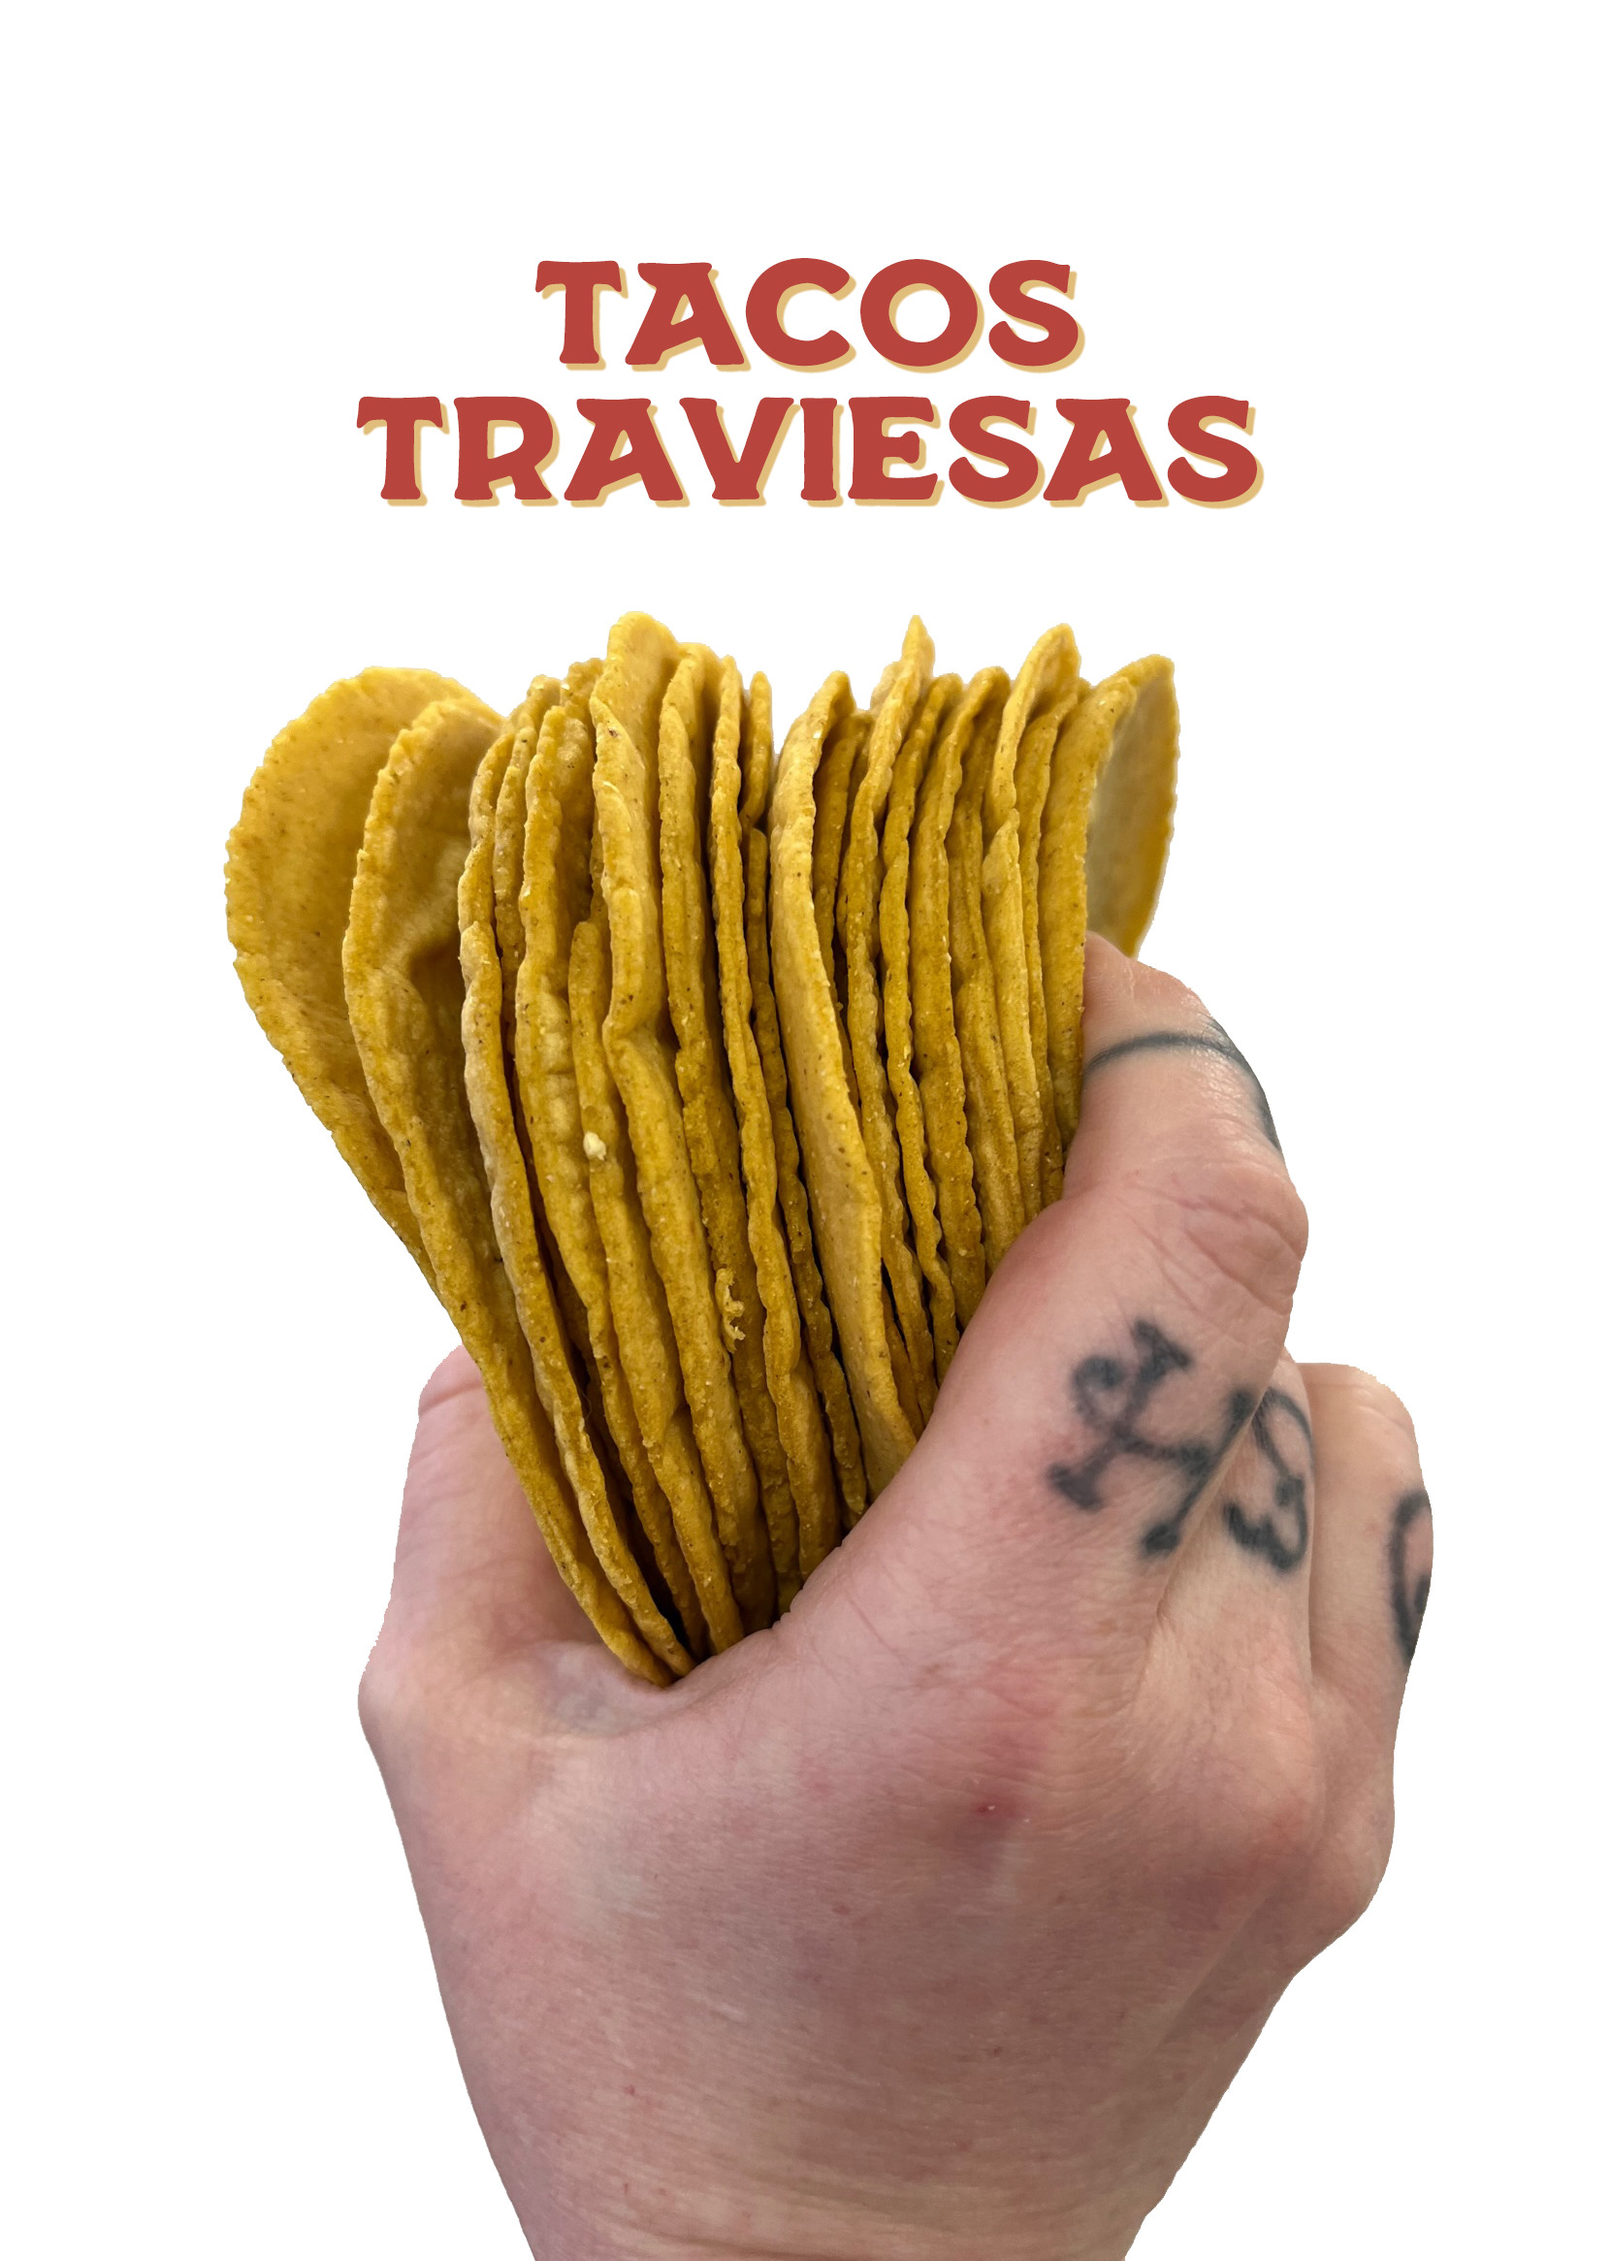
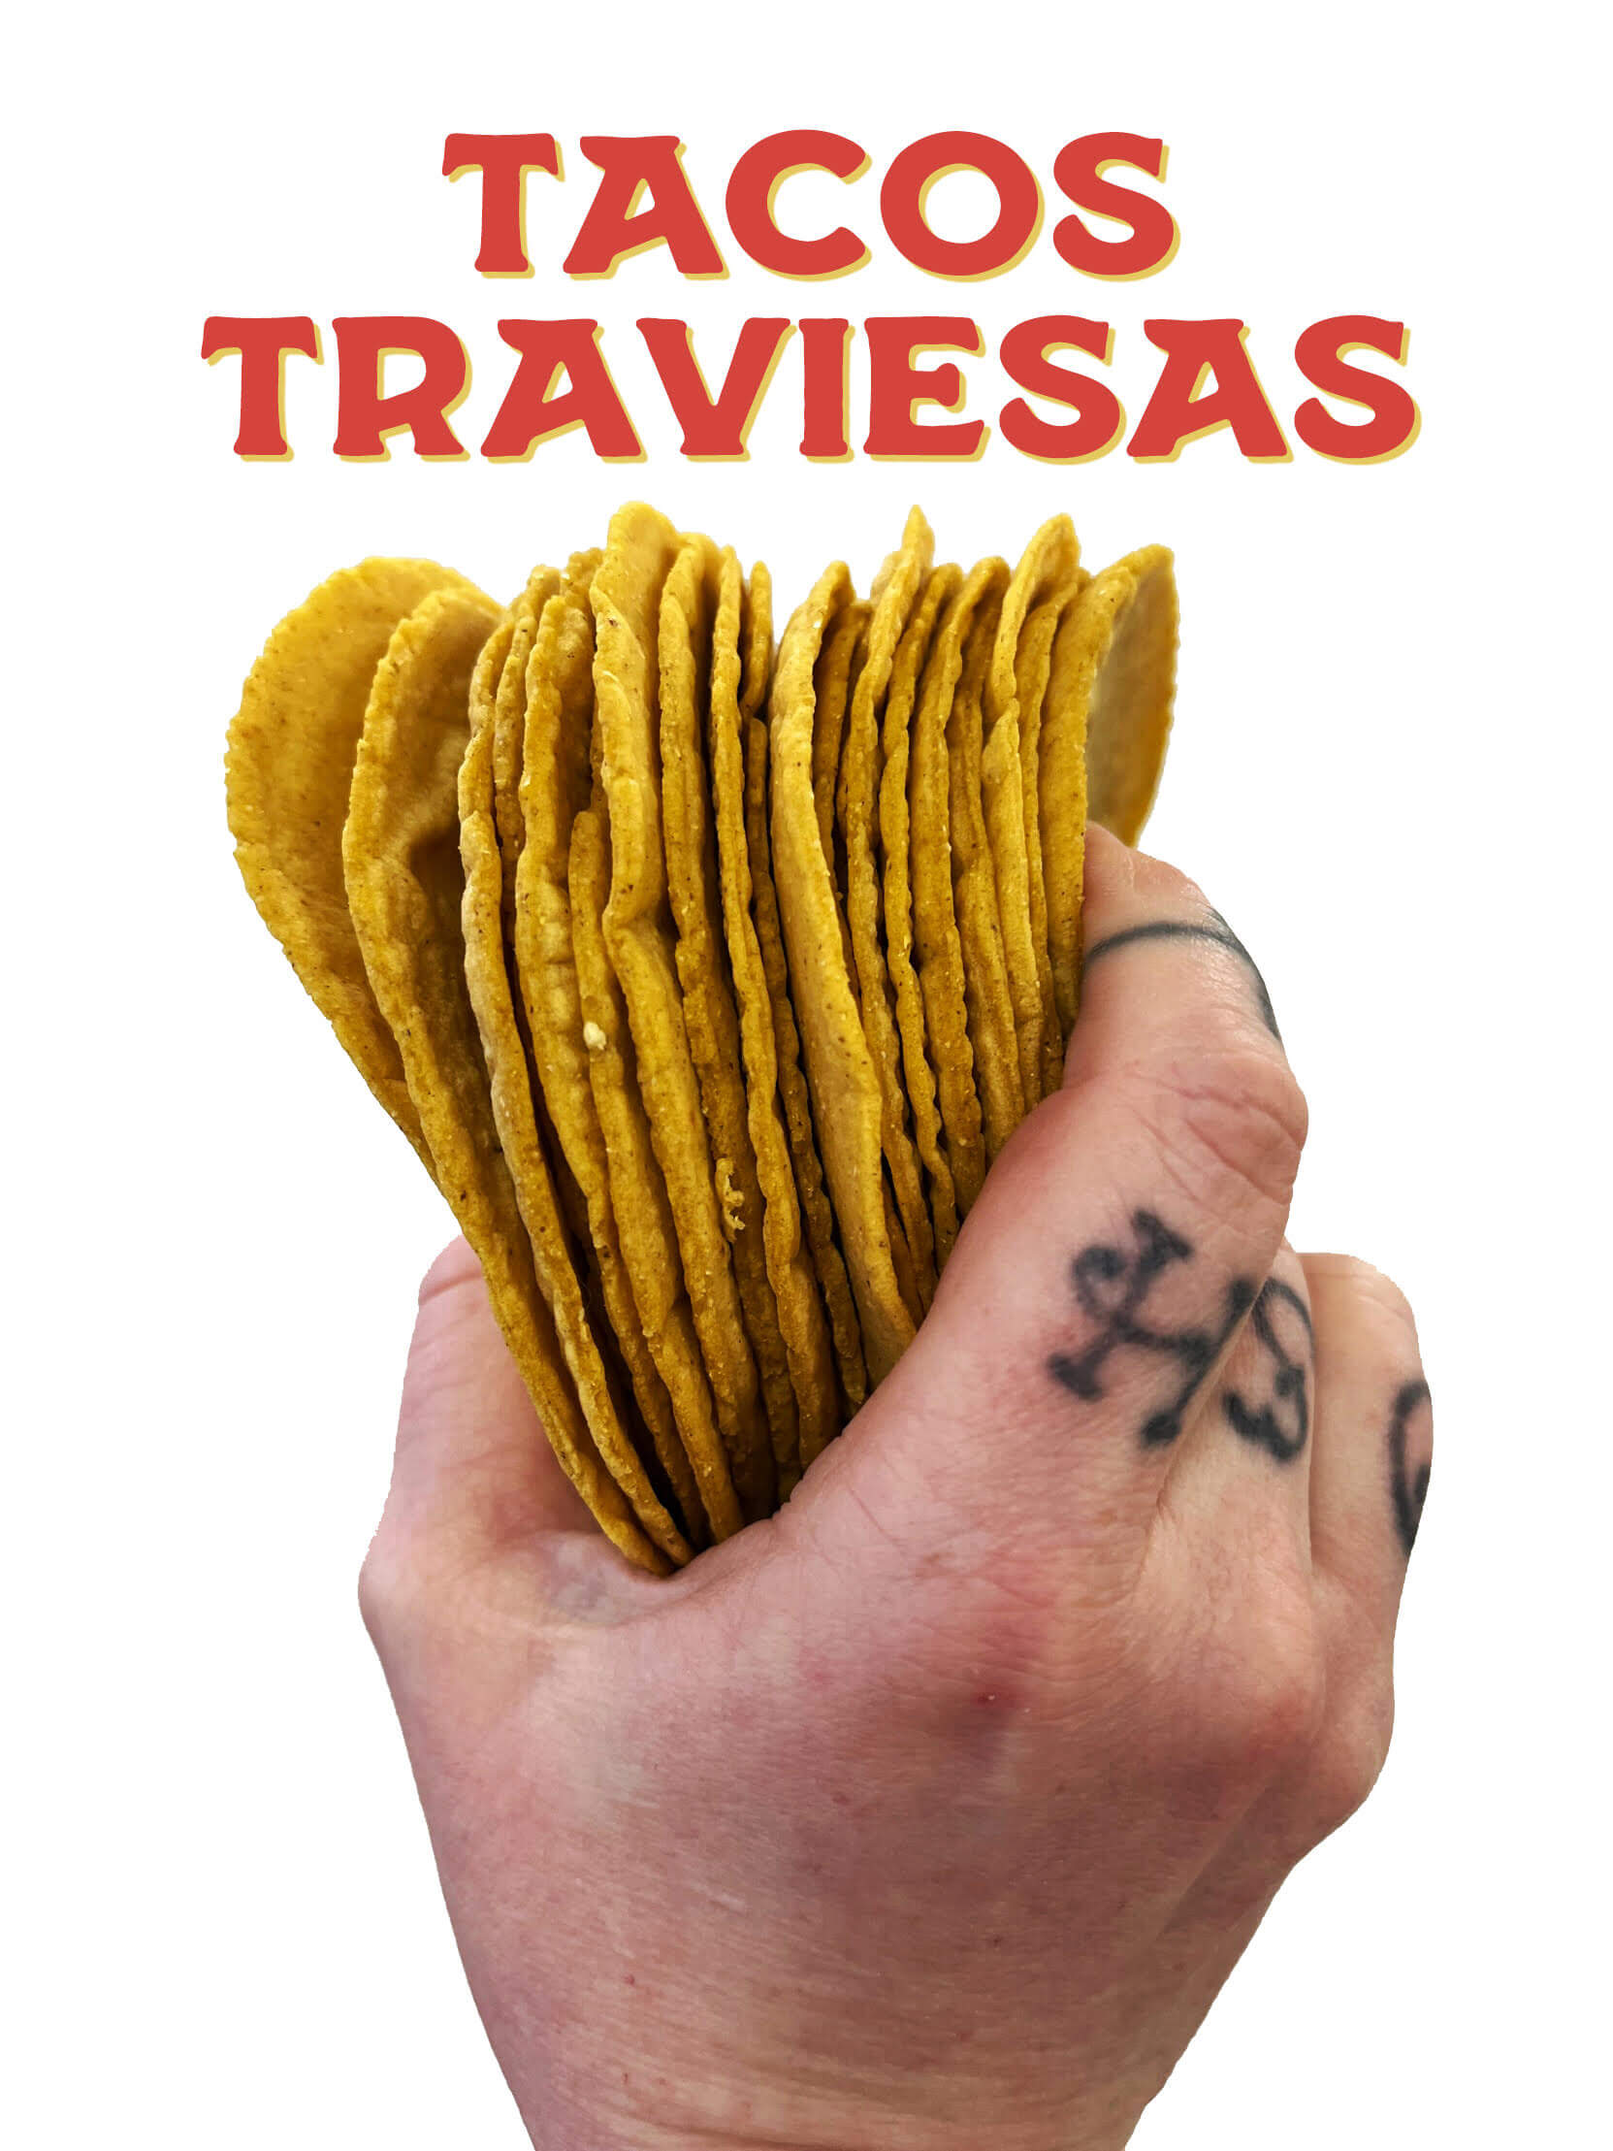
tweaks

diff --git a/src/header.css b/src/header.css
@@ -42,7 +42,7 @@ a {
   .desktop-link {
     font-size: 1.6rem;
     font-family: logoFont;
-    color: #b7443d;
+    color: #d4443d;
     text-shadow: 1.5px 1.5px #d6a242;
   }
 
@@ -104,7 +104,7 @@ a {
 
   .text {
     text-align: center;
-    color:#b7443d;
+    color:#d4443d;
     text-shadow: 1.5px 1.5px #d6a242;
     font-family: logoFont;
   }
@@ -157,7 +157,7 @@ a {
     font-size: 1.5rem;
     font-family: logoFont;
     margin-top: 5vh;
-    color: #b7443d;
+    color: #d4443d;
     text-align: center;
     display: flex;
     align-items: center;
@@ -171,7 +171,7 @@ a {
     font-size: 1.5rem;
     font-family: logoFont;
     margin-top: 5vh;
-    color: #b7443d;
+    color: #d4443d;
     margin-bottom: 5vh;
     text-align: center;
     padding-right: 1rem;
@@ -183,7 +183,7 @@ a {
     font-size: 1.5rem;
     font-family: logoFont;
     margin-top: 1vh;
-    color: #b7443d;
+    color: #d4443d;
     margin-bottom: 5vh;
     text-align: center;
     padding-right: 1rem;
@@ -271,7 +271,7 @@ a {
       font-size: 1.5rem;
       font-family: logoFont;
       margin-top: 5vh;
-      color: #b7443d;
+      color: #d4443d;
       text-align: center;
       padding-right: 1rem;
       padding-left: 1rem;
@@ -281,7 +281,7 @@ a {
       font-size: 1.5rem;
       font-family: logoFont;
       margin-top: 5vh;
-      color: #b7443d;
+      color: #d4443d;
       margin-bottom: 5vh;
       text-align: center;
       padding-right: 1rem;
@@ -292,7 +292,7 @@ a {
       font-size: 1.5rem;
       font-family: logoFont;
       margin-top: 5vh;
-      color: #b7443d;
+      color: #d4443d;
       margin-bottom: 5vh;
       text-align: center;
       padding-right: 1rem;
@@ -323,7 +323,7 @@ a {
   
     .text {
       text-align: center;
-      color:#b7443d;
+      color:#d4443d;
       text-shadow: 1.5px 1.5px #d6a242;
       font-family: logoFont;
     }
@@ -358,7 +358,7 @@ a {
     .desktop-link {
       font-size: 1.6rem;
       font-family: logoFont;
-      color: #b7443d;
+      color: #d4443d;
       text-shadow: 1.5px 1.5px #d6a242;
     }
 
@@ -420,7 +420,7 @@ a {
   
     .text {
       text-align: center;
-      color:#b7443d;
+      color:#d4443d;
       text-shadow: 1.5px 1.5px #d6a242;
       font-family: logoFont;
     }
@@ -473,7 +473,7 @@ a {
       font-size: 1.5rem;
       font-family: logoFont;
       margin-top: 5vh;
-      color: #b7443d;
+      color: #d4443d;
       text-align: center;
       display: flex;
       align-items: center;
@@ -487,7 +487,7 @@ a {
       font-size: 1.5rem;
       font-family: logoFont;
       margin-top: 5vh;
-      color: #b7443d;
+      color: #d4443d;
       margin-bottom: 5vh;
       text-align: center;
       padding-right: 1rem;
@@ -499,7 +499,7 @@ a {
       font-size: 1.5rem;
       font-family: logoFont;
       margin-top: 1vh;
-      color: #b7443d;
+      color: #d4443d;
       margin-bottom: 5vh;
       text-align: center;
       padding-right: 1rem;
@@ -588,7 +588,7 @@ a {
     font-size: 1.5rem;
     font-family: logoFont;
     margin-top: 5vh;
-    color: #b7443d;
+    color: #d4443d;
     text-align: center;
     padding-right: 1rem;
     padding-left: 1rem;
@@ -598,7 +598,7 @@ a {
     font-size: 1.5rem;
     font-family: logoFont;
     margin-top: 5vh;
-    color: #b7443d;
+    color: #d4443d;
     margin-bottom: 5vh;
     text-align: center;
     padding-right: 1rem;
@@ -609,7 +609,7 @@ a {
     font-size: 1.5rem;
     font-family: logoFont;
     margin-top: 5vh;
-    color: #b7443d;
+    color: #d4443d;
     margin-bottom: 5vh;
     text-align: center;
     padding-right: 1rem;
@@ -640,7 +640,7 @@ a {
 
   .text {
     text-align: center;
-    color:#b7443d;
+    color:#d4443d;
     text-shadow: 1.5px 1.5px #d6a242;
     font-family: logoFont;
   }

diff --git a/src/App.css b/src/App.css
@@ -16,7 +16,7 @@ src: url('../public/Fonts/HandCraftedARegular.ttf');
 }
 
 .content-header-chef {
-  color: #b7443d;
+  color: #d4443d;
 }
 
 .wrapper{
@@ -95,7 +95,7 @@ src: url('../public/Fonts/HandCraftedARegular.ttf');
   .circle {
     width: 10px;
     height: 10px;
-    background-color: #b7443d;
+    background-color: #d4443d;
     border-radius: 50%;
   }
 
@@ -382,7 +382,7 @@ src: url('../public/Fonts/HandCraftedARegular.ttf');
   }
 
   button{
-    background-color: #b7443d;
+    background-color: #d4443d;
     color: white;
     border: none;
     width: 30%;
@@ -486,7 +486,7 @@ src: url('../public/Fonts/HandCraftedARegular.ttf');
   .circle {
     width: 10px;
     height: 10px;
-    background-color: #b7443d;
+    background-color: #d4443d;
     border-radius: 50%;
   }
 
@@ -772,7 +772,7 @@ src: url('../public/Fonts/HandCraftedARegular.ttf');
   }
 
   button{
-    background-color: #b7443d;
+    background-color: #d4443d;
     color: white;
     border: none;
     width: 30%;
@@ -846,8 +846,8 @@ src: url('../public/Fonts/HandCraftedARegular.ttf');
     }
   
     .traviesas-content{
-      padding-right: 5%;
-      padding-left: 5%;
+      padding-right: 10%;
+      padding-left: 10%;
       margin-bottom: 10%;
       margin-top: 5%;
     }
@@ -879,7 +879,7 @@ src: url('../public/Fonts/HandCraftedARegular.ttf');
   .circle {
     width: 10px;
     height: 10px;
-    background-color: #b7443d;
+    background-color: #d4443d;
     border-radius: 50%;
   }
 
@@ -1078,11 +1078,9 @@ src: url('../public/Fonts/HandCraftedARegular.ttf');
   }
 
   .content-body-about {
-    margin-top: 5%;
     font-family: verdana;
     font-size: 1rem;
     text-align: center;
-    margin-bottom: 5%;
     font-style: italic;
   }
 
@@ -1166,7 +1164,7 @@ src: url('../public/Fonts/HandCraftedARegular.ttf');
   }
 
   button{
-    background-color: #b7443d;
+    background-color: #d4443d;
     color: white;
     border: none;
     width: 30%;
@@ -1269,7 +1267,7 @@ src: url('../public/Fonts/HandCraftedARegular.ttf');
   .circle {
     width: 10px;
     height: 10px;
-    background-color: #b7443d;
+    background-color: #d4443d;
     border-radius: 50%;
   }
 
@@ -1484,8 +1482,6 @@ src: url('../public/Fonts/HandCraftedARegular.ttf');
     font-family: verdanaBold;
     font-size: 2rem;
     text-align: center;
-    margin-top: 5%;
-    margin-bottom: 5%;
   }
 
   .menu-wrapper {
@@ -1561,7 +1557,7 @@ src: url('../public/Fonts/HandCraftedARegular.ttf');
   }
 
   button{
-    background-color: #b7443d;
+    background-color: #d4443d;
     color: white;
     border: none;
     width: 30%;
@@ -1669,7 +1665,7 @@ src: url('../public/Fonts/HandCraftedARegular.ttf');
   .circle {
     width: 10px;
     height: 10px;
-    background-color: #b7443d;
+    background-color: #d4443d;
     border-radius: 50%;
   }
 
@@ -1961,7 +1957,7 @@ src: url('../public/Fonts/HandCraftedARegular.ttf');
   }
 
   button{
-    background-color: #b7443d;
+    background-color: #d4443d;
     color: white;
     border: none;
     width: 30%;
@@ -2071,7 +2067,7 @@ src: url('../public/Fonts/HandCraftedARegular.ttf');
   .circle {
     width: 10px;
     height: 10px;
-    background-color: #b7443d;
+    background-color: #d4443d;
     border-radius: 50%;
   }
 
@@ -2364,7 +2360,7 @@ src: url('../public/Fonts/HandCraftedARegular.ttf');
   }
 
   button{
-    background-color: #b7443d;
+    background-color: #d4443d;
     color: white;
     border: none;
     width: 30%;
